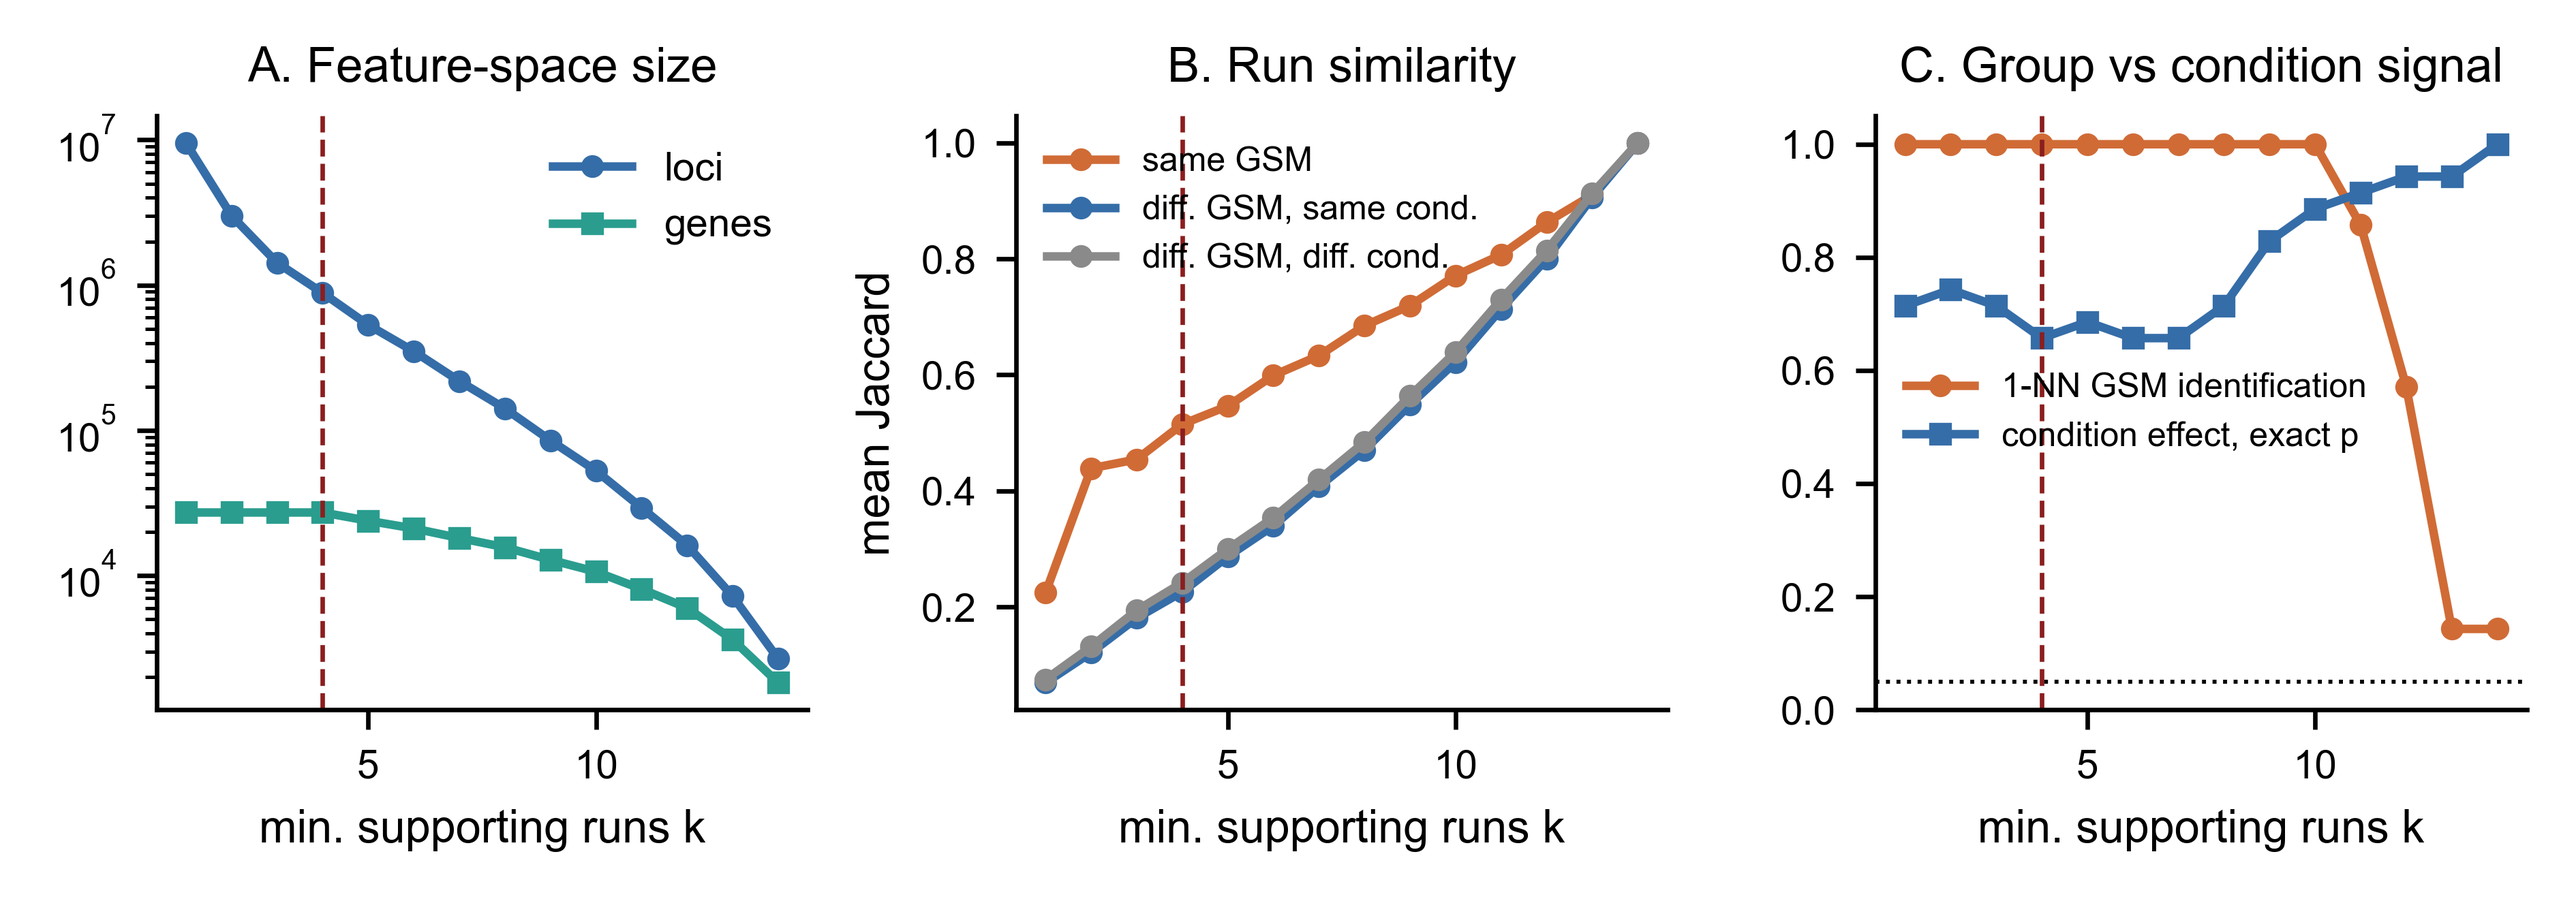
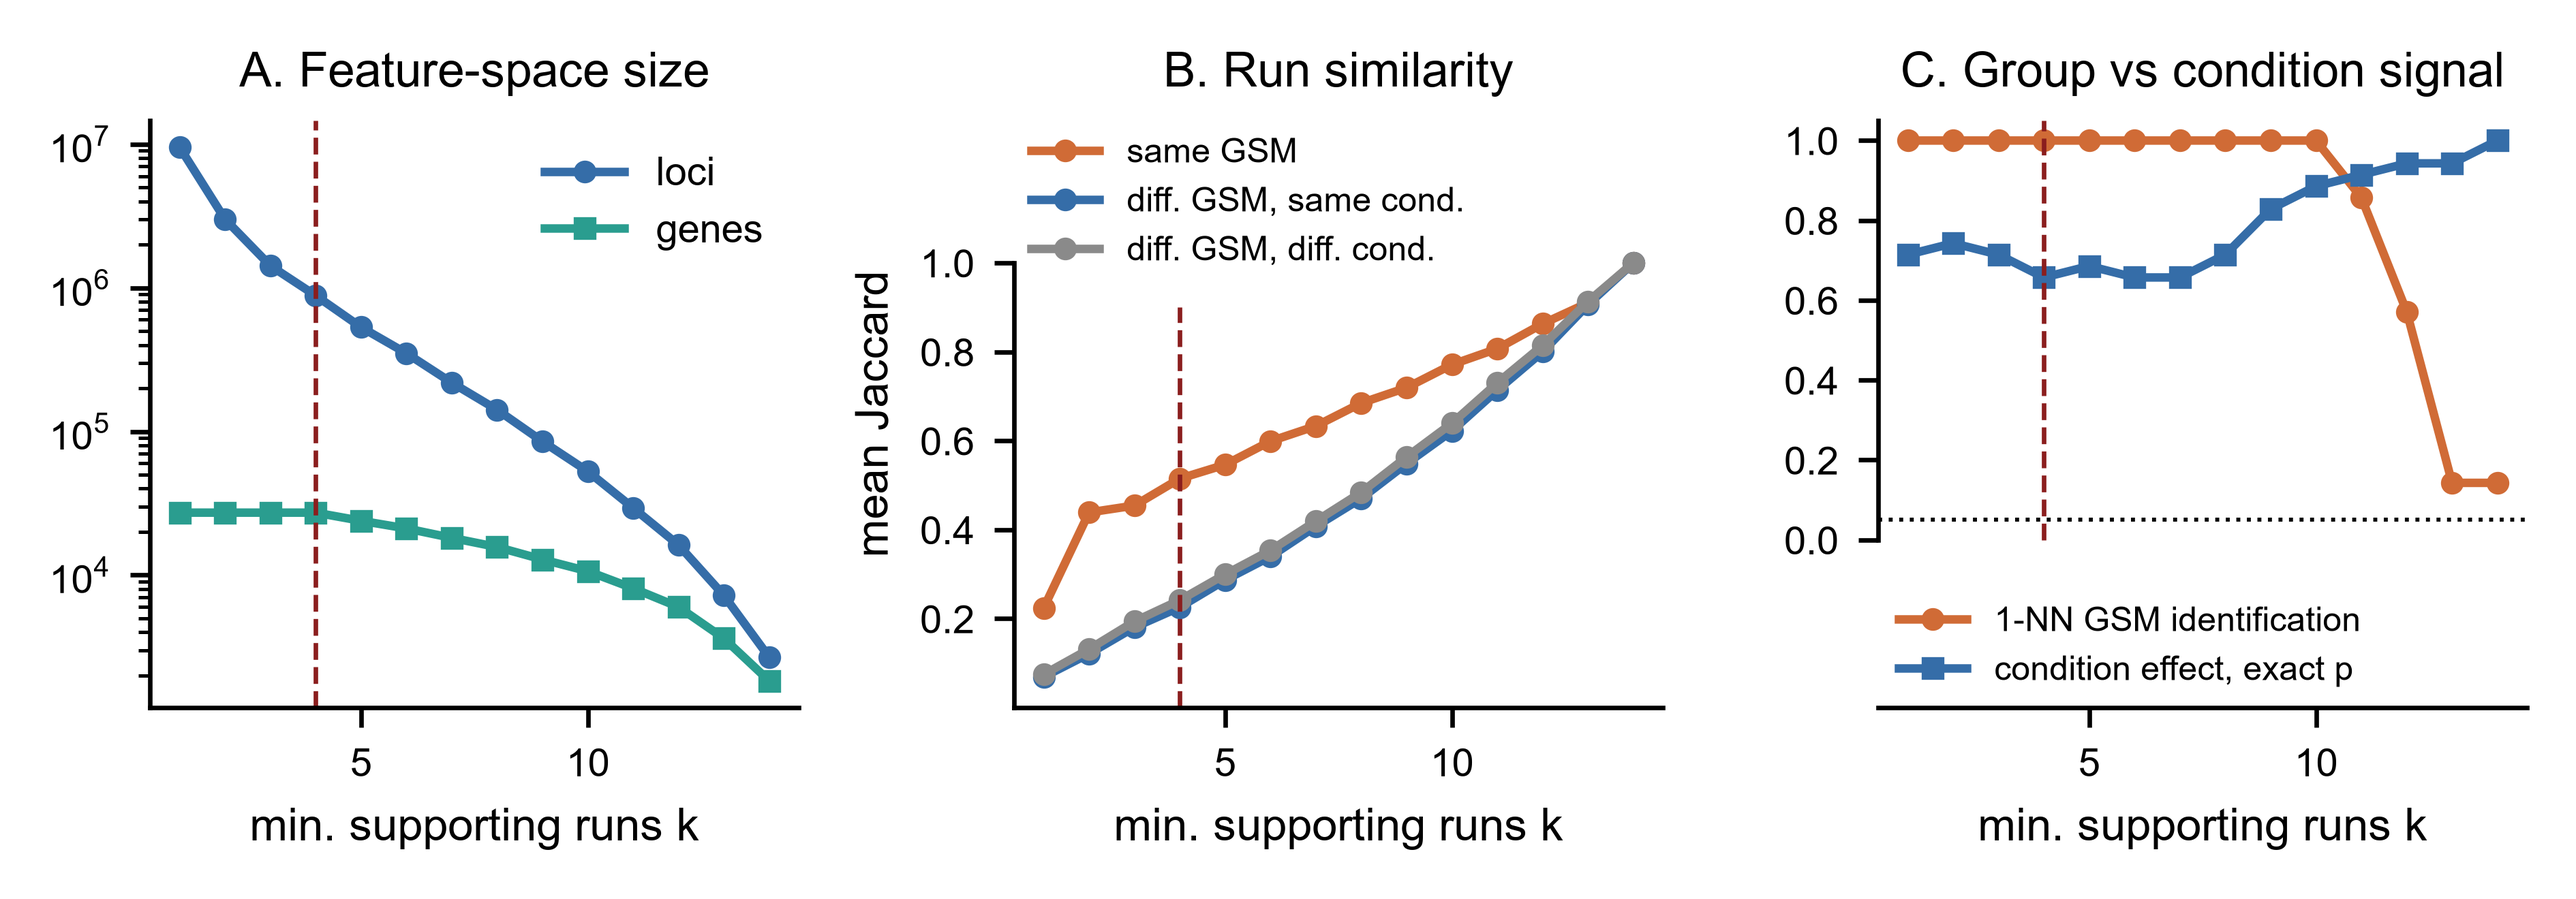
Fix legend/label overlaps in article figures
Figure 2 and 4 (NAN RK): legends moved off the data; Figure 3 (KBTU):
x-axis class labels no longer run together. Data unchanged.

diff --git a/revision_2026-11-21/scripts/light_04_article_figures.py b/revision_2026-11-21/scripts/light_04_article_figures.py
@@ -106,13 +106,15 @@ def main() -> int:
     ax.bar(x - bw, qc.raw / 1e6, bw, color="#c9c9c9", label="raw HaplotypeCaller")
     ax.bar(x, qc["pass"] / 1e6, bw, color=BLUE, label="PASS (hard filters)")
     ax.bar(x + bw, qc.cohort_recurrent / 1e6, bw, color=ORANGE, label="recurrent (>=4 runs)")
-    ax.set_xticks(x, labels, rotation=60, ha="right"); ax.set_ylabel("records, millions"); ax.legend(frameon=False, ncol=1, loc="upper left")
-    ax.set_title("A. Call counts per run"); ax.axvline(7.5, color=GREY, lw=0.6, ls=":")
+    ax.set_xticks(x, labels, rotation=60, ha="right"); ax.set_ylabel("records, millions"); ax.set_ylim(0, (qc.raw / 1e6).max() * 1.32)
+    ax.legend(frameon=False, ncol=3, loc="upper center", fontsize=6.5, handlelength=1.2, columnspacing=1.0)
+    ax.set_title("A. Call counts per run"); ax.axvline(7.5, ymax=0.78, color=GREY, lw=0.6, ls=":")
     ax = axes[1]
     bottom = np.zeros(len(samples))
     for f, c in [("HighSOR", PURPLE), ("LowQD", TEAL), ("HighFS", RED)]:
         v = 100 * qc[f] / qc.raw; ax.bar(x, v, 0.7, bottom=bottom, color=c, label=f); bottom += v
-    ax.set_xticks(x, labels, rotation=60, ha="right"); ax.set_ylabel("% of raw records flagged"); ax.legend(frameon=False, fontsize=6.5)
+    ax.set_xticks(x, labels, rotation=60, ha="right"); ax.set_ylabel("% of raw records flagged"); ax.set_ylim(0, bottom.max() * 1.3)
+    ax.legend(frameon=False, ncol=3, loc="upper center", fontsize=6.5, handlelength=1.2, columnspacing=1.0)
     ax.set_title("B. Hard-filter flags (may overlap)")
     fig.tight_layout(); fig.savefig(a.nanrk / "Figure_2_call_counts_qc.png"); plt.close(fig)
 
@@ -134,11 +136,13 @@ def main() -> int:
     ax = axes[1]
     for col, lab, c in [("within", "same GSM", ORANGE), ("between_same", "diff. GSM, same cond.", BLUE), ("between_diff", "diff. GSM, diff. cond.", GREY)]:
         ax.plot(sw.min_support_runs, sw[col], "o-", ms=3, color=c, label=lab)
-    ax.set_xlabel("min. supporting runs k"); ax.set_ylabel("mean Jaccard"); ax.set_title("B. Run similarity"); ax.legend(frameon=False, fontsize=6)
+    ax.set_xlabel("min. supporting runs k"); ax.set_ylabel("mean Jaccard"); ax.set_title("B. Run similarity"); ax.set_ylim(0, 1.32); ax.set_yticks([0.2, 0.4, 0.6, 0.8, 1.0]); ax.spines["left"].set_bounds(0, 1.0)
+    ax.legend(frameon=False, fontsize=6, loc="upper left", borderaxespad=0.1)
     ax = axes[2]; ax.plot(sw.min_support_runs, sw.nn_donor_id_acc, "o-", ms=3, color=ORANGE, label="1-NN GSM identification")
     ax.plot(sw.min_support_runs, sw.p_condition_exact, "s-", ms=3, color=BLUE, label="condition effect, exact p"); ax.axhline(0.05, ls=":", color="black", lw=0.7)
-    ax.set_ylim(0, 1.05); ax.set_xlabel("min. supporting runs k"); ax.set_title("C. Group vs condition signal"); ax.legend(frameon=False, fontsize=6, loc="center left")
-    for ax in axes: ax.axvline(4, ls="--", color=RED, lw=0.8)
+    ax.set_ylim(-0.42, 1.05); ax.set_yticks([0, 0.2, 0.4, 0.6, 0.8, 1.0]); ax.spines["left"].set_bounds(0, 1.05)
+    ax.set_xlabel("min. supporting runs k"); ax.set_title("C. Group vs condition signal"); ax.legend(frameon=False, fontsize=6, loc="lower left", borderaxespad=0.2)
+    for ax in axes: ax.axvline(4, ymin=(0.42 / 1.47 if ax is axes[2] else 0), ymax=(0.9 / 1.32 if ax is axes[1] else 1), ls="--", color=RED, lw=0.8)
     fig.tight_layout(); fig.savefig(a.nanrk / "Figure_4_filter_sensitivity.png"); plt.close(fig)
 
     rt = pd.read_csv(a.res / "D_gatk_runtime_per_run.tsv", sep="\t").set_index("sample_id").loc[samples]
@@ -165,7 +169,7 @@ def main() -> int:
 
     pairs = pd.read_csv(a.res / "A_pairwise_similarity.tsv", sep="\t"); summ = pd.read_csv(a.res / "A_donor_structure_summary.tsv", sep="\t").set_index("measure")
     order = ["within donor", "between donors, same condition", "between donors, different condition"]; cols = [ORANGE, BLUE, GREY]
-    fig, axes = plt.subplots(1, 4, figsize=(W, 2.3)); rng = np.random.default_rng(3)
+    fig, axes = plt.subplots(1, 4, figsize=(W, 2.5)); rng = np.random.default_rng(3)
     names = ["PASS-locus Jaccard", "Genotype concordance (shared loci)", "Gene-burden Spearman (cohort filter)", "Expression Pearson (log1p CPM)"]
     short_names = ["A. Locus Jaccard", "B. Genotype concordance", "C. Gene-burden Spearman", "D. Expression Pearson"]
     for ax, n, sn in zip(axes, names, short_names):
@@ -174,7 +178,7 @@ def main() -> int:
             v = part[part.pair_class == cls].value.to_numpy()
             ax.scatter(k + rng.uniform(-0.17, 0.17, len(v)), v, s=7, color=c, alpha=0.85, lw=0)
             ax.hlines(v.mean(), k - 0.3, k + 0.3, color="black", lw=1.2)
-        st = summ.loc[n]; ax.set_xticks(range(3), ["same\nGSM", "diff. GSM\nsame cond.", "diff. GSM\ndiff. cond."], fontsize=6)
+        st = summ.loc[n]; ax.set_xticks(range(3), ["same\nGSM", "diff.\nGSM,\nsame\ncond.", "diff.\nGSM,\ndiff.\ncond."], fontsize=6)
         ax.set_title(f"{sn}\nGSM p<0.001; cond. p={st.p_condition_exact:.2f}", fontsize=7)
     fig.tight_layout(); fig.savefig(a.kbtu / "Figure_3_pair_classes.png"); plt.close(fig)
 
